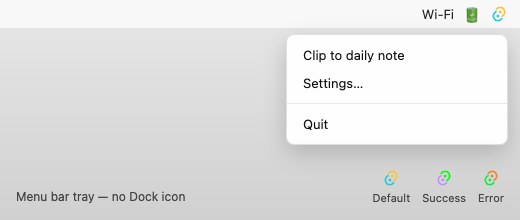
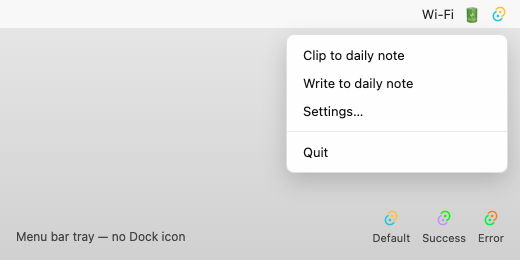
docs: regenerate settings and tray screenshots for write shortcut.

diff --git a/README.md b/README.md
@@ -337,9 +337,9 @@ cargo test --test live_clip -- --nocapture
 
 ```bash
 # Settings + tray menu mockups
-npx playwright screenshot --viewport-size="420,480" \
+npx playwright screenshot --viewport-size="420,680" \
   file://$PWD/docs/screenshots/settings-mockup.html docs/screenshots/settings.png
-npx playwright screenshot --viewport-size="520,220" \
+npx playwright screenshot --viewport-size="520,260" \
   file://$PWD/docs/screenshots/tray-mockup.html docs/screenshots/tray-menu.png
 
 # Tray icon state PNGs
